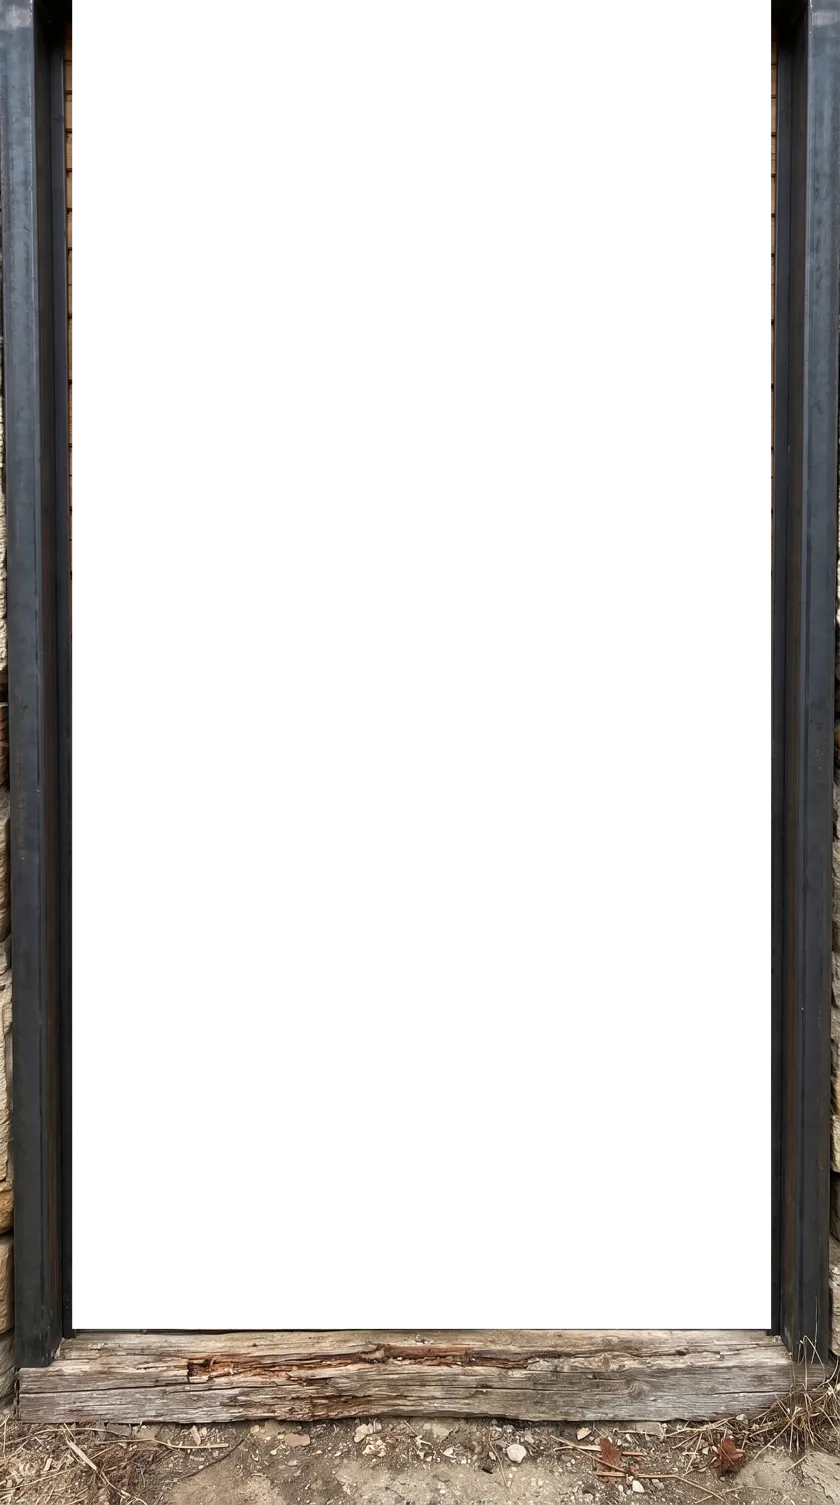
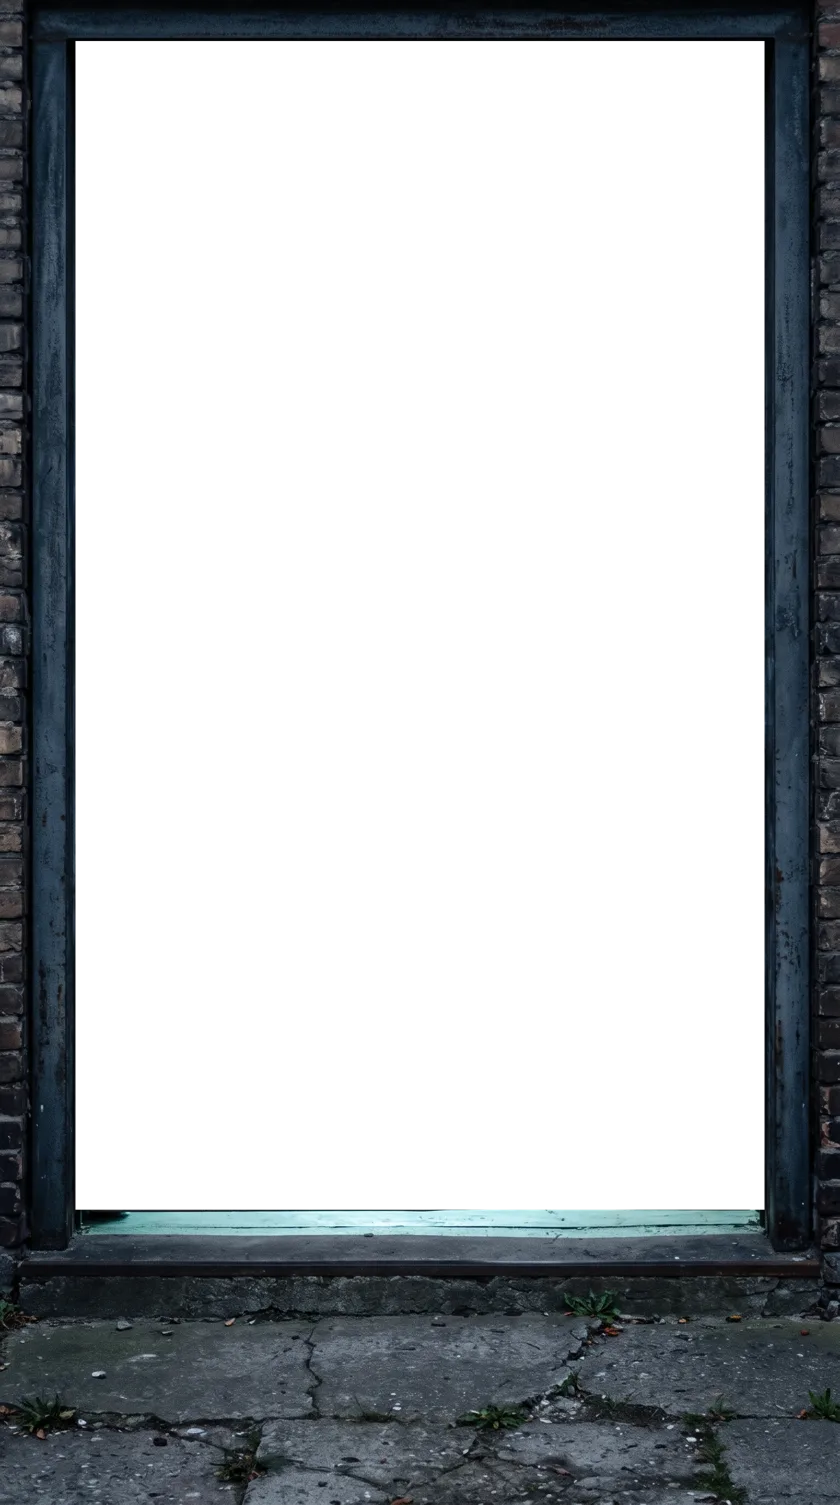
v3.3.3: Neues blaues Stahl-Rolltor (Foto), Blech-Ton

diff --git a/v2/anim.css b/v2/anim.css
@@ -132,9 +132,9 @@ svg.bsvg .imp{fill:#000;transform-box:fill-box;transform-origin:center;opacity:0
 @media(prefers-reduced-motion:reduce){.rt{display:none}}
 /* Scheunentor (Holz, Foto): Rahmen + Schwelle + Boden stehen, nur das Torblatt fährt hoch */
 .rt .rbx{position:absolute;left:50%;bottom:0;width:max(100vw,55.82vh);aspect-ratio:1536/2752;transform:translateX(-50%)}
-.rt .rop{position:absolute;left:8.594%;top:0;width:83.2%;height:88.3%;overflow:hidden}
+.rt .rop{position:absolute;left:8.984%;top:2.725%;width:82.03%;height:77.65%;overflow:hidden}
 .rt .rc{inset:0;height:100%;background:url(img/anim/tor-blatt.webp) center/100% 100% no-repeat}
 .rt .rc:before{background:linear-gradient(110deg,transparent 30%,rgba(255,240,210,.08) 45%,transparent 60%)}
 .rt .rfr{position:absolute;inset:0;background:url(img/anim/tor-rahmen.webp) center/100% 100% no-repeat;pointer-events:none}
-.rt .rwl{background:linear-gradient(180deg,#120c07 0,#3b2a1a 14%,#7a5c3c 32%,#a88560 46%,#6d5136 62%,#2e2014 84%,#0e0905 100%)}
-.rt .rr1{background:repeating-linear-gradient(180deg,rgba(255,230,190,.12) 0 1px,rgba(20,10,0,.35) 1px 5px)}
+.rt .rwl{background:linear-gradient(180deg,#05080d 0,#14202e 14%,#2c4562 32%,#5b7896 46%,#2a405a 62%,#101a26 84%,#04070b 100%)}
+.rt .rr1{background:repeating-linear-gradient(180deg,rgba(190,220,255,.14) 0 1px,rgba(0,0,0,.35) 1px 4px)}

diff --git a/v2/version.js b/v2/version.js
@@ -3,11 +3,11 @@
 // Beim Ändern: version, ggf. schema und news anpassen, CHANGELOG.md ergänzen.
 self.APP = {
   name: 'Schrauberschule',
-  version: '3.3.2',
+  version: '3.3.3',
   schema: 2,            // Schema-Version des Spielstands (nur erhöhen, wenn sich die Struktur ändert; dann Migration in migrate.js)
   date: '2026-11-18',
   news: [
-    '🚪 Neues Scheunentor zur Werkstatt: knarzt und fährt langsam hoch, bei jedem Start.',
+    '🚪 Neues Rolltor zur Werkstatt: Schrauber Scheune Sonnenberg, fährt langsam hoch, bei jedem Start.',
     '🔊 Der Prüfstand macht wieder Ton.',
     '🎨 Lackieren geht jetzt sofort: Farbe wählen, fertig.',
     '🔧 Die Werkbank zeigt echte Fotos der Motorteile.',

diff --git a/v2/anim.js b/v2/anim.js
@@ -307,7 +307,7 @@
   const T = window.__TOR; if (!T) return;
   T.ta = 1.1; T.tv = 2.6; T.tb = 1.0; T.tw = .8; T.T = T.ta + T.tv + T.tb;
   try { const i = new Image(); i.src = 'img/anim/tor-blatt.webp'; const j = new Image(); j.src = 'img/anim/tor-rahmen.webp' } catch (e) {}
-  FX.gateSnd = function () {
+  FX.gateSndHolz = function () {
     if (!this.on()) return; const c = this.A(); if (!c) return;
     const t0 = c.currentTime + .18, out = this.out(), D = T.T;
     const vel = t => Math.max(0, (T.pos(t + .01) - T.pos(t - .01)) / .02), vmax = 1 / (T.tv + (T.ta + T.tb) / 2);

diff --git a/v2/CHANGELOG.md b/v2/CHANGELOG.md
@@ -5,6 +5,9 @@ Regel: 3.0.1 = Fehlerbehebung, 3.1.0 = neue Funktionen, 4.0.0 = große Neuerung.
 Neuer Spielstand-Aufbau → `APP.schema` um 1 erhöhen und in `v2/migrate.js` einen Schritt `MIGS[alt]` ergänzen.
 Ablauf Update: version.js ändern → Service Worker bekommt neuen Cache-Namen → Nutzer sieht „Neue Version verfügbar – Jetzt aktualisieren“ → danach „Was ist neu?“ (Text aus `APP.news`).
 
+## 3.3.3 (2026-11-18)
+- Neues Rolltor (Foto, DDR-Werkstatt, nachtblau, Simson-Silhouette), Blech-Rolltor-Ton.
+
 ## 3.3.2 (2026-11-18)
 - Scheunentor: Rahmen, Schwelle und Boden bleiben stehen, nur das Torblatt fährt hoch.
 
